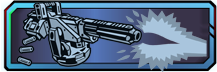
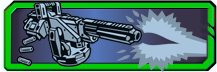
Add Action Skill for Vanilla Version (#6)
* Replacing action skill assets with the active one (green)

* Initial implementation of Action Skill

* Add hardcoded skill point for action skill

* Rename skill-action to actionSkill to conform with current coding style

* Implement Action Skill to other characters (Vanilla)
Also fix z-index for Action Skill description.

Changed region(s): [[0.0, 0.0278, 0.9954, 1.0], [0.2212, 0.0833, 0.2488, 0.1111]]

diff --git a/main.css b/main.css
@@ -186,6 +186,12 @@ body.choicePage .wrapper {
   height: 53px;
 }
 
+.actionSkill {
+  display: inline-block;
+  position: relative;
+  cursor: pointer;
+}
+
 .points {
   visibility: hidden;
   position: absolute;
@@ -199,11 +205,16 @@ body.choicePage .wrapper {
   color: white;
 }
 
+.actionSkill .points {
+  visibility: initial;
+}
+
 .skill.partial .points {
   color: #F80;
 }
 
-.skill.full .points {
+.skill.full .points,
+.actionSkill .points {
   color: #0B0;
 }
 
@@ -243,12 +254,14 @@ legend {
   display: none;
 }
 
-.tree .description {
+.tree .description,
+.actionSkill .description
+ {
   display: none;
   position: absolute;
   top: 0;
   width: 200px;
-  z-index: 20;
+  z-index: 21;
   background-color: #111;
   color: white;
   padding: 0 0.25em 0.5em;
@@ -262,6 +275,11 @@ legend {
 
 .red .description {
   right: 110%;
+}
+
+.actionSkill .description {
+  top: 10%;
+  left: 105%;
 }
 
 .tier[data-level='4'] .description {
@@ -279,7 +297,8 @@ legend {
   bottom: 0;
 }
 
-.tree .description h2 {
+.tree .description h2,
+.actionSkill .description h2 {
   padding: 0.15em 0;
   margin-bottom: 0.15em;
   font-size: 125%;
@@ -359,6 +378,14 @@ legend {
 }
 
 .skill:hover .description:hover {
+  display: none;
+}
+
+.actionSkill:hover .description {
+  display: block;
+}
+
+.actionSkill:hover .description:hover {
   display: none;
 }
 

diff --git a/assassin.html b/assassin.html
@@ -17,6 +17,12 @@
 	<h3>Level <span class="charLevel">5</span> Assassin</h3>
 </div>
 <img unselectable="on" class="portrait" src="assassinPortrait.png">
+<div>
+	<div class="actionSkill"><img src="icons/assassin-actionskill.png" />
+		<div class="description"><h2>Decepti0n</h2>Action Skill. Create a holographic decoy and vanish for a few seconds. The longer you are invisible the more Damage your next attack deals, but ending invisibility sooner causes your next Deception Cooldown to refresh faster.<br/><br/>Cooldown: 15 seconds.<br/>Up to 650% Melee Damage.<br/>Up to 200% Gun Damage.<br/>Up to 250% Gun Critical Hit Damage.</div>
+		<div class="points">1/1</div>
+	</div>
+</div>
 <div class="treeCollection">
 <div class="treewrapper green">
 	<div class="bglayer gray"></div>

diff --git a/gunzerker.html b/gunzerker.html
@@ -17,6 +17,12 @@
 	<h3>Level <span class="charLevel">5</span> Gunzerker</h3>
 </div>
 <img unselectable="on" class="portrait" src="gunzerkerPortrait.png" style="left: 30%;margin-left: -50%;">
+<div>
+	<div class="actionSkill"><img src="icons/gunzerker-actionskill.png" />
+		<div class="description"><h2>Gunzerking</h2>Action Skill. Draw a second gun and go nuts! While Gunzerking you Instantly Regain 50% of Your Total Health, gain Damage Reduction against enemy attacks, and constantly Regenerate Health and Ammo. Does not regenerate rockets. Cooldown: 42 seconds</div>
+		<div class="points">1/1</div>
+	</div>
+</div>
 <div class="treeCollection">
 <div class="treewrapper green">
 	<div class="bglayer gray"></div>

diff --git a/psycho.html b/psycho.html
@@ -17,6 +17,12 @@
 	<h3>Level <span class="charLevel">5</span> Psycho</h3>
 </div>
 <img unselectable="on" class="portrait" src="psychoPortrait.png">
+<div>
+	<div class="actionSkill"><img src="icons/psycho-actionskill.png" />
+		<div class="description"><h2>Buzz Axe Rampage</h2>Your Melee Damage and Movement Speed is increased. Killing an enemy instantly refills your Health. Taking damage accelerates Cooldown Recharge.<br/>Melee Damage: 500%<br/>Cooldown: 120 seconds</div>
+		<div class="points">1/1</div>
+	</div>
+</div>
 <div class="treeCollection">
 <div class="treewrapper green">
 	<div class="bglayer gray"></div>

diff --git a/commando.html b/commando.html
@@ -17,6 +17,12 @@
 	<h3>Level <span class="charLevel">5</span> Commando</h3>
 </div>
 <img unselectable="on" class="portrait" src="commandoPortrait.png">
+<div>
+	<div class="actionSkill"><img src="icons/commando-actionskill.png" />
+		<div class="description"><h2>Sabre Turret</h2>Action Skill. Deploy a Sabre Turret that automatically fires at enemies. When you're near the Sabre Turret you can reclaim it and refund some of your Cooldown. <br />Cooldown: 42 seconds.</div>
+		<div class="points">1/1</div>
+	</div>
+</div>
 <div class="treeCollection">
 <div class="treewrapper green">
 	<div class="bglayer gray"></div>

diff --git a/siren.html b/siren.html
@@ -17,6 +17,12 @@
 	<h3>Level <span class="charLevel">5</span> Siren</h3>
 </div>
 <img unselectable="on" class="portrait" src="sirenPortrait.png">
+<div>
+	<div class="actionSkill"><img src="icons/siren-actionskill.png" />
+		<div class="description"><h2>Phaselock</h2>Action Skill. Lock an enemy in another dimension, preventing him from fighting back for a short while. Some enemies cannot be Phaselocked and instead instantly take damage. Cooldown: 13 seconds</div>
+		<div class="points">1/1</div>
+	</div>
+</div>
 <div class="treeCollection">
 <div class="treewrapper green">
 	<div class="bglayer gray"></div>

diff --git a/mechromancer.html b/mechromancer.html
@@ -17,6 +17,12 @@
 	<h3>Level <span class="charLevel">5</span> Mechromancer</h3>
 </div>
 <img unselectable="on" class="portrait" src="mechromancerPortrait.png">
+<div>
+	<div class="actionSkill"><img src="icons/mechromancer-actionskill.png" />
+		<div class="description"><h2>Summon Deathtrap</h2>Action Skill. Summon Deathtrap to fight for you. Cooldown: 60 seconds</div>
+		<div class="points">1/1</div>
+	</div>
+</div>
 <div class="treeCollection">
 <div class="treewrapper green">
 	<div class="bglayer gray"></div>
